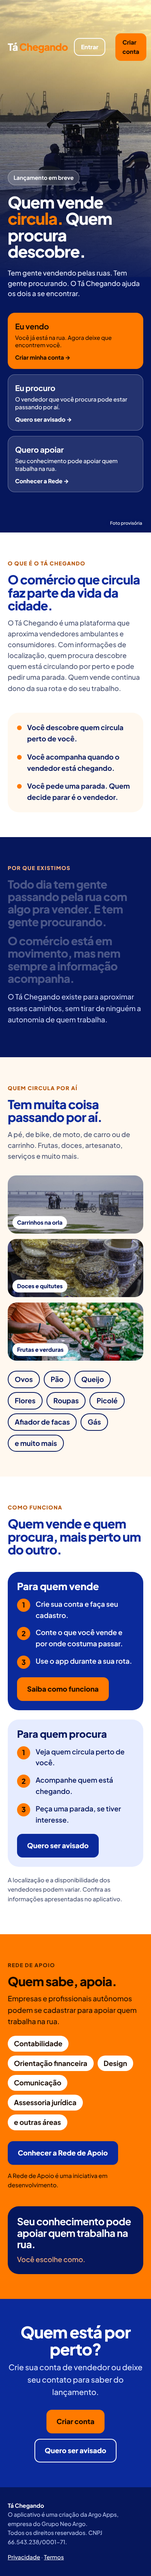
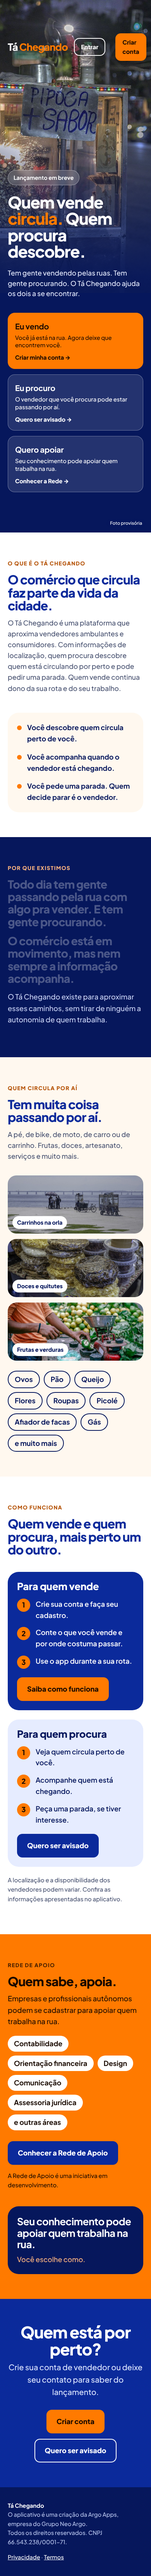
Corrige espaçamento da abertura e atualiza prévias
Claude-Session: https://claude.ai/code/session_01LcXxeUqSh6sDf9uFZcD67g

Changed region(s): [[0.0, 0.0, 1.0, 0.0934]]

diff --git a/novo/styles.css b/novo/styles.css
@@ -22,7 +22,7 @@ section{padding:clamp(64px,9vw,120px) 0}
 :focus-visible{outline:3px solid var(--laranja);outline-offset:3px;border-radius:6px}
 
 /* abertura */
-.hero{position:relative;min-height:100vh;display:flex;flex-direction:column;overflow:hidden;color:#fff;background:var(--azul-esc) url(img/hero.jpg) 68% center/cover no-repeat}
+.hero{padding:0;position:relative;min-height:100vh;display:flex;flex-direction:column;overflow:hidden;color:#fff;background:var(--azul-esc) url(img/hero.jpg) 68% center/cover no-repeat}
 .hero::before{content:"";position:absolute;inset:0;background:linear-gradient(90deg,rgba(6,23,92,.96) 0%,rgba(6,23,92,.86) 36%,rgba(6,23,92,.25) 68%,rgba(6,23,92,0) 100%)}
 .hero>*{position:relative}
 header.top{display:flex;align-items:center;justify-content:space-between;padding:22px clamp(20px,5vw,64px);gap:16px}
